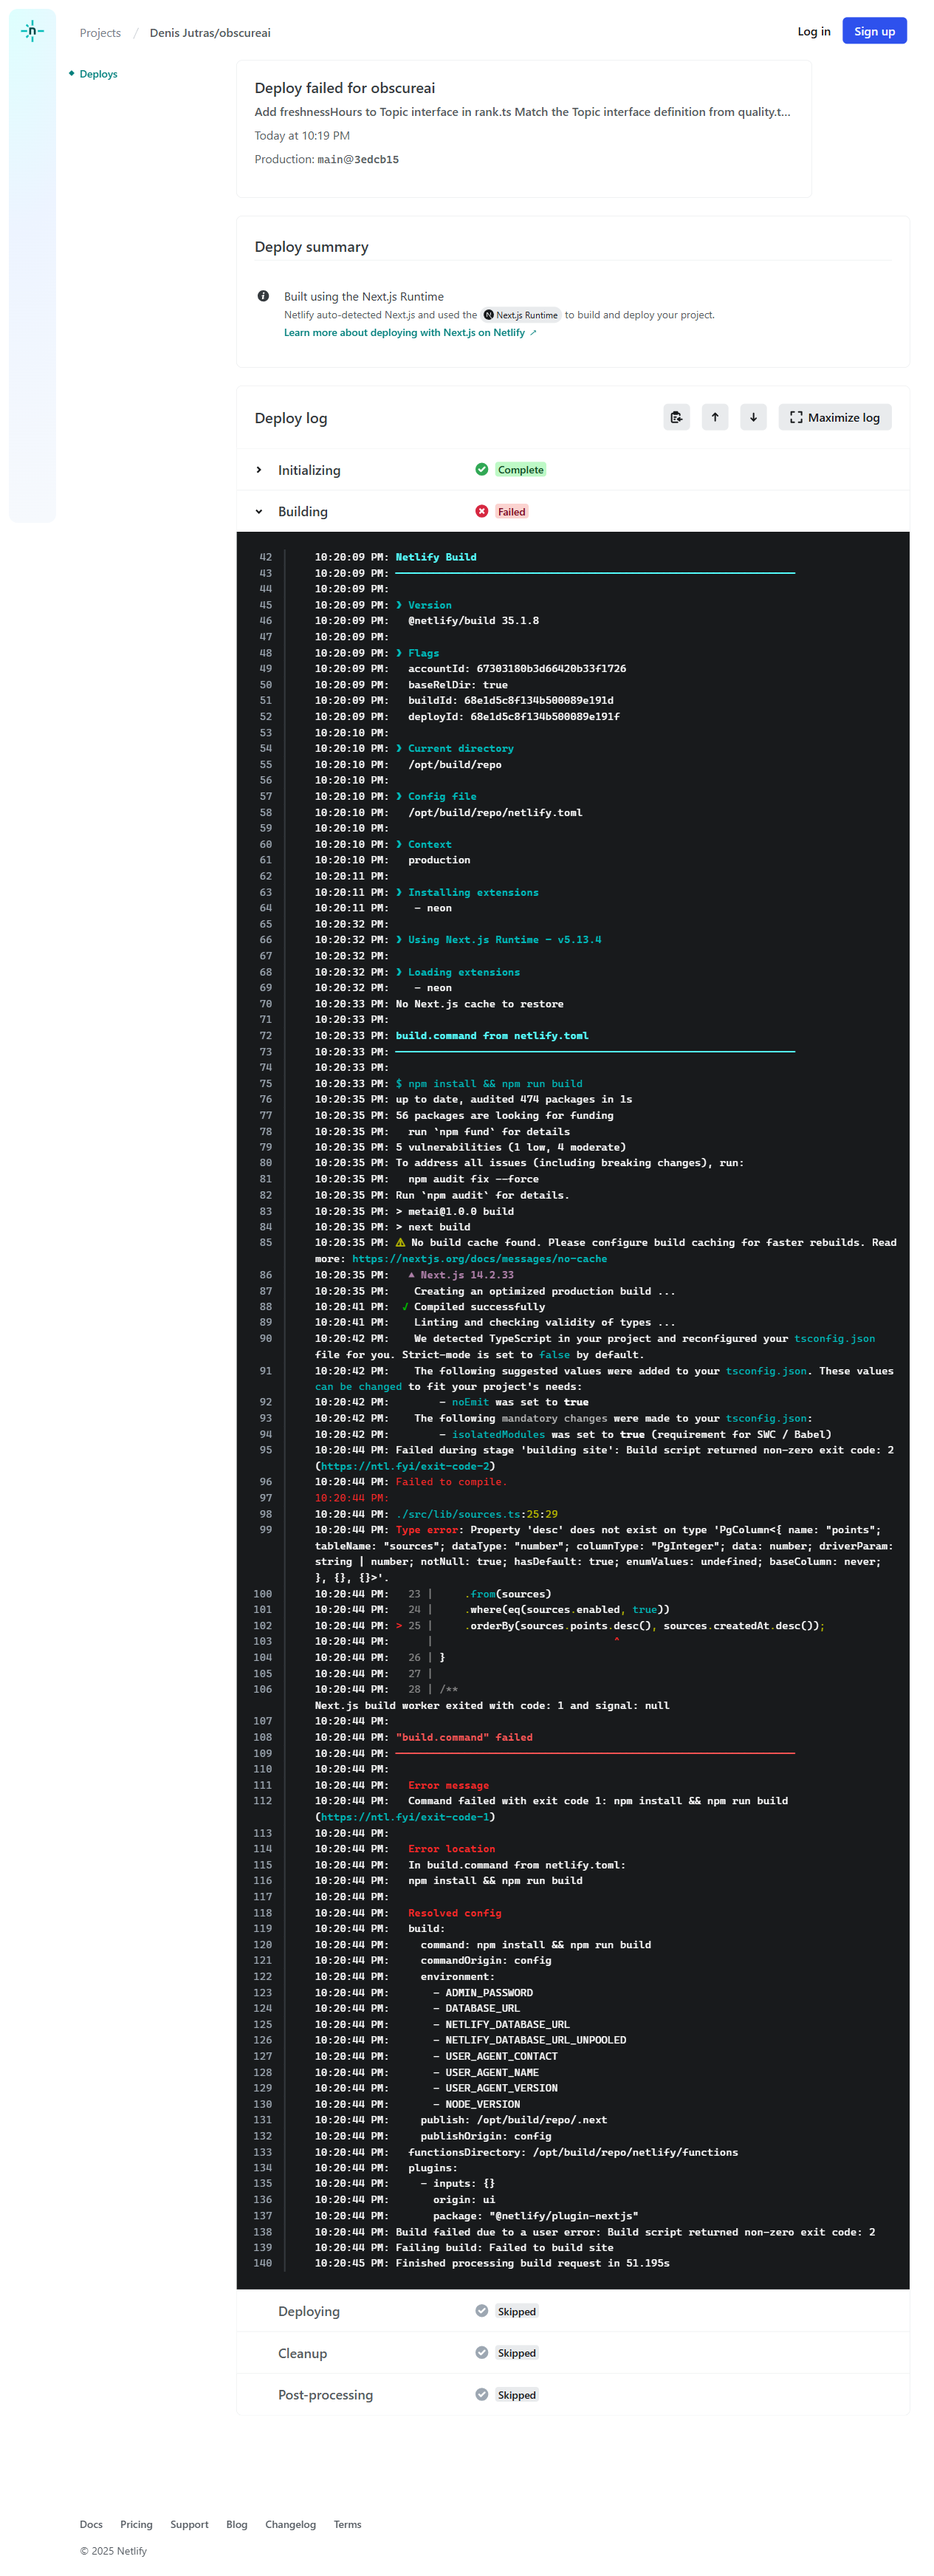
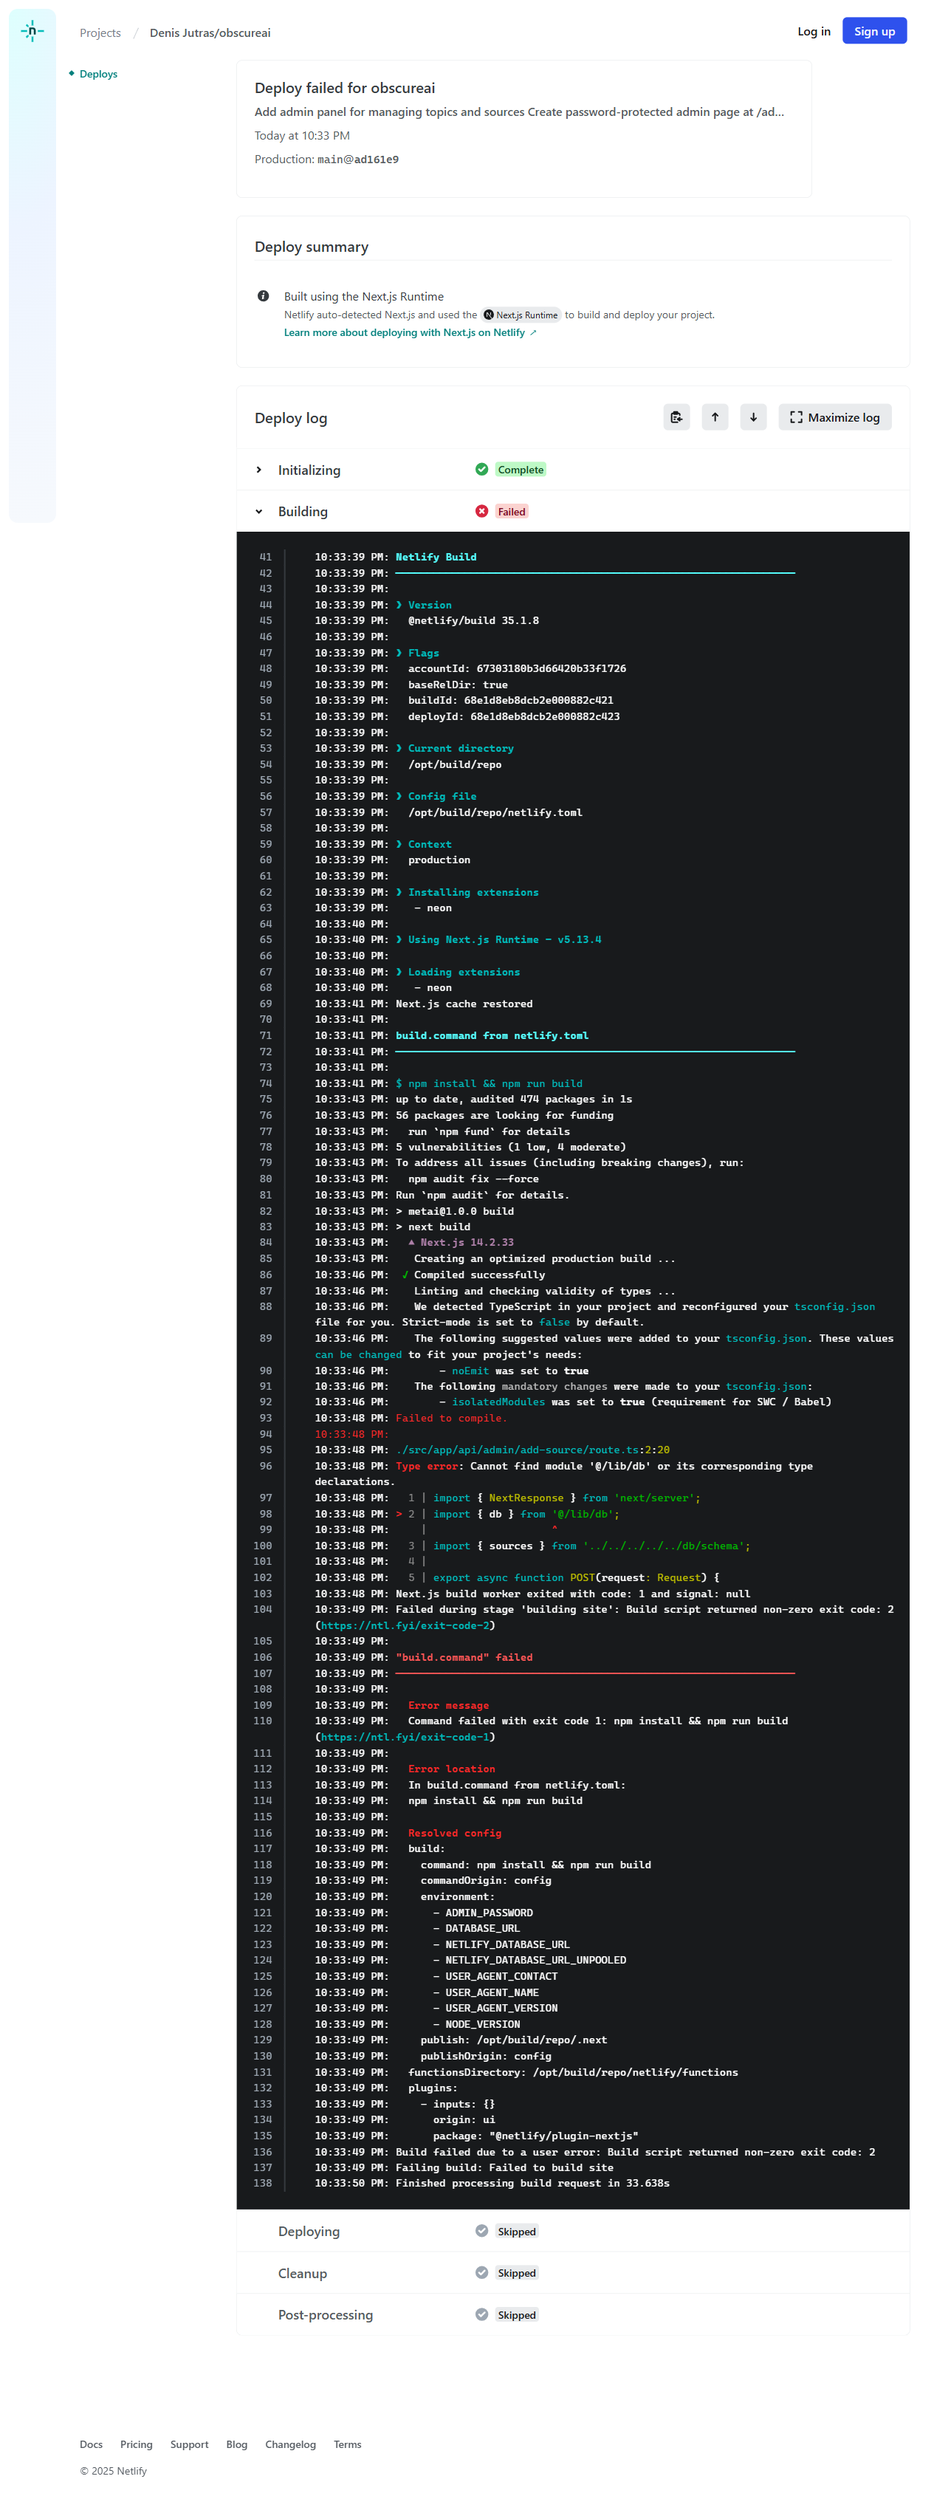
Fix import paths in admin API routes
Use relative paths instead of path aliases to resolve module imports correctly.

🤖 Generated with [Claude Code](https://claude.com/claude-code)

diff --git a/check-netlify.ts b/check-netlify.ts
@@ -7,10 +7,10 @@ async function checkNetlifyDeploy() {
 
   try {
     console.log('Navigating to Netlify deploys page...');
-    await page.goto('https://app.netlify.com/projects/obscureai/deploys');
+    await page.goto('https://app.netlify.com/projects/obscureai/deploys', { timeout: 60000 });
 
     // Wait for the page to load
-    await page.waitForTimeout(3000);
+    await page.waitForTimeout(5000);
 
     // Check for the most recent deploy status
     const firstDeploy = page.locator('[data-testid="deploy-card"]').first();

diff --git a/src/app/api/admin/add-source/route.ts b/src/app/api/admin/add-source/route.ts
@@ -1,5 +1,5 @@
 import { NextResponse } from 'next/server';
-import { db } from '@/lib/db';
+import { db } from '../../../../lib/db';
 import { sources } from '../../../../../db/schema';
 
 export async function POST(request: Request) {

diff --git a/src/app/api/admin/add-topic/route.ts b/src/app/api/admin/add-topic/route.ts
@@ -1,5 +1,5 @@
 import { NextResponse } from 'next/server';
-import { db } from '@/lib/db';
+import { db } from '../../../../lib/db';
 import { topics } from '../../../../../db/schema';
 
 export async function POST(request: Request) {
